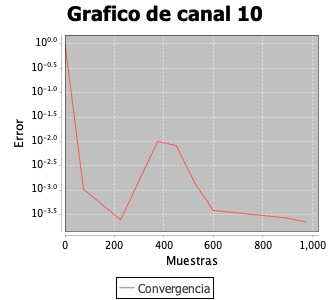
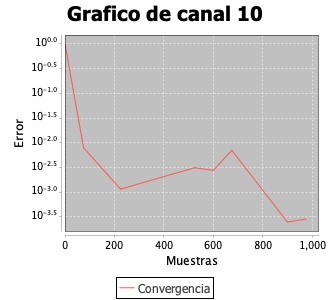
Modificacion matrices (invertirlas)

diff --git a/src/ejercicio4/Ej4.java b/src/ejercicio4/Ej4.java
@@ -47,13 +47,13 @@ public class Ej4 {
 
         System.out.println("\n---------------------");
 
-        System.out.println("\nRuido del canal 2: "+c2.getRuido(1e-4));
+        System.out.println("\nRuido del canal 2: "+c2.getRuido());
         System.out.println("Ruido analitico del canal 2: " + c2.getRuidoAnalitico());
         c2.generarGrafico("Grafico de canal 2");
-        System.out.println("Ruido del canal 8: "+c8.getRuido(1e-4));
+        System.out.println("Ruido del canal 8: "+c8.getRuido());
         System.out.println("Ruido analitico del canal 8: " + c8.getRuidoAnalitico());
         c8.generarGrafico("Grafico de canal 8");
-        System.out.println("Ruido del canal 10: "+c10.getRuido(1e-4));
+        System.out.println("Ruido del canal 10: "+c10.getRuido());
         System.out.println("Ruido analitico del canal 10: " + c10.getRuidoAnalitico());
         c10.generarGrafico("Grafico de canal 10");
 

diff --git a/src/ejercicio4/Canal.java b/src/ejercicio4/Canal.java
@@ -9,8 +9,8 @@ import java.util.ArrayList;
 
 public class Canal {
 
-    static final double MINVALORMUESTRAS=1000;
-    private double epsilon = 1e-4;
+    private static final double MINVALORMUESTRAS=1000;
+    private static final double epsilon = 1e-4;
     private int tamanioX;
     private int tamanioY;
     private double[][] matrizConjunta;
@@ -80,7 +80,7 @@ public class Canal {
     }
 
 
-    public double getRuido(double valor){
+    public double getRuido(){
         double [][]matrizCondicional=generarMatrizCondicional();
         double [][] matrizConjuntaMuestreo=new double[tamanioY][tamanioX];
         double [] probabilidadX=new double[tamanioX];
